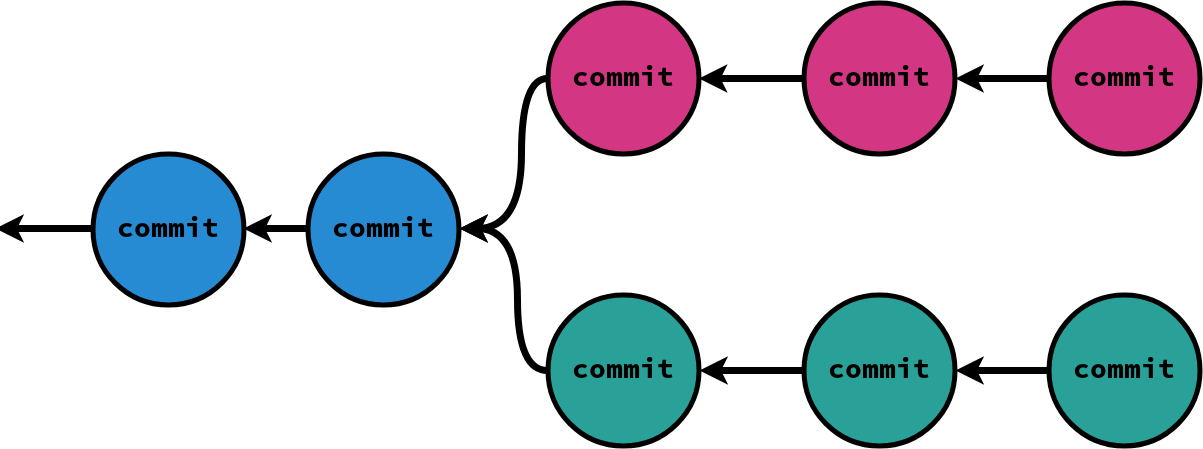
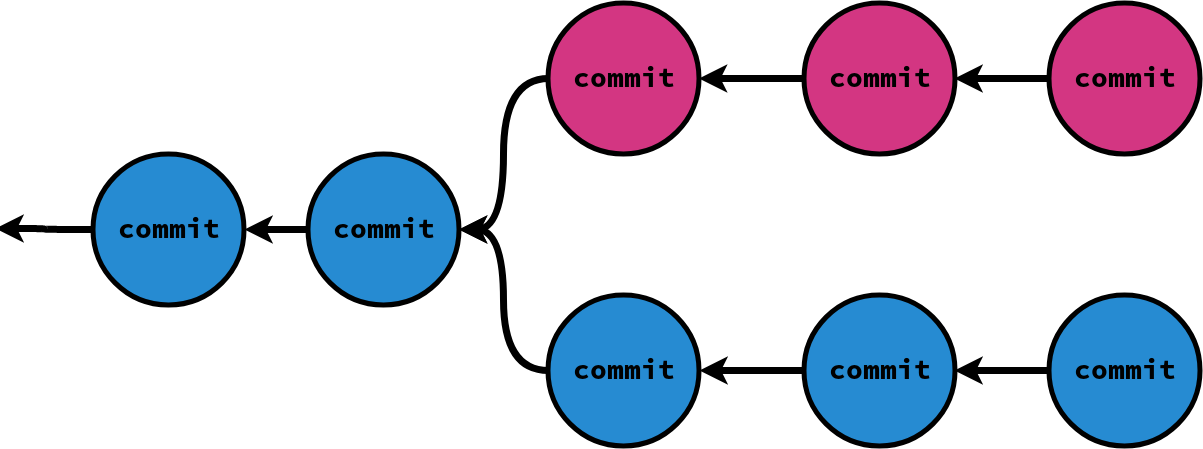
Add slides about sets of changes

diff --git a/think-like-git.md b/think-like-git.md
@@ -463,9 +463,14 @@ commit aa2b897b78cfa402a19e7b679780f7fe57ac0e3f
 <img src="/img/branched-commits.png" style="width: 70%; margin: 0; box-shadow: none; border: 0; background: transparent">
 <!-- .element: class="fragment fade-in" -->
 
+
+<img src="/img/commit-sets.png" style="width: 70%; margin: 0; margin-top: -4%; box-shadow: none; border: 0; background: transparent">
+
+<img src="/img/reduced-sets.png" style="width: 70%; margin: 0; box-shadow: none; border: 0; background: transparent">
+<!-- .element: class="fragment fade-in" -->
+
+
 <!-- tu skończyłem -->
-
-
 ### HEAD
 
 <img src="img/detached_head.jpg" style="width: 50%">
